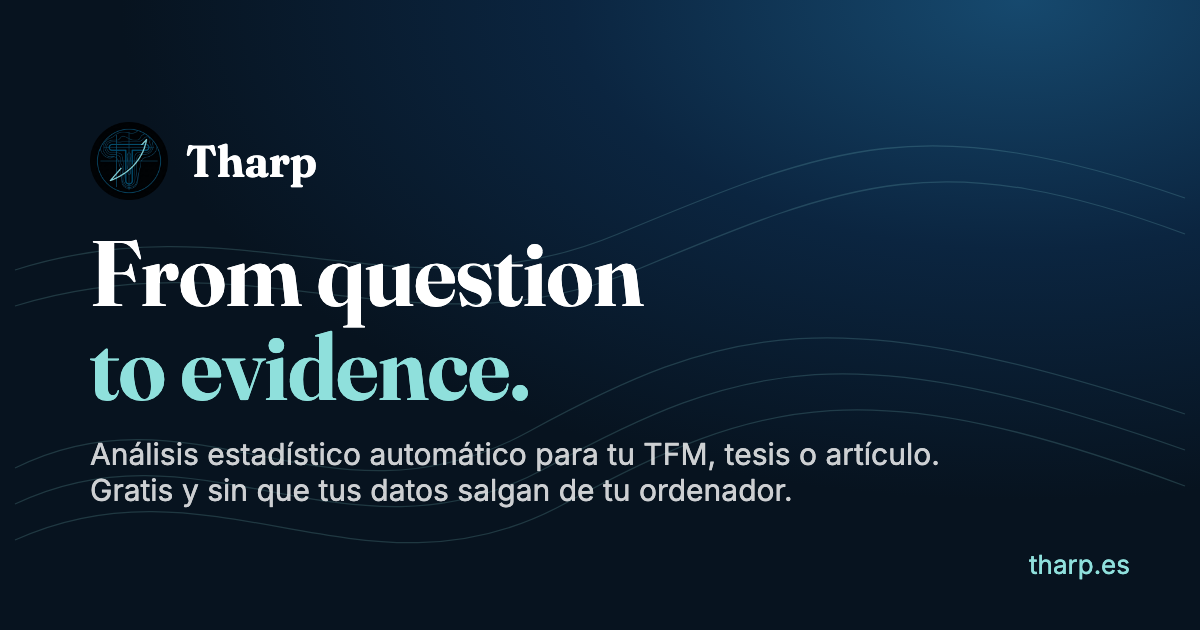
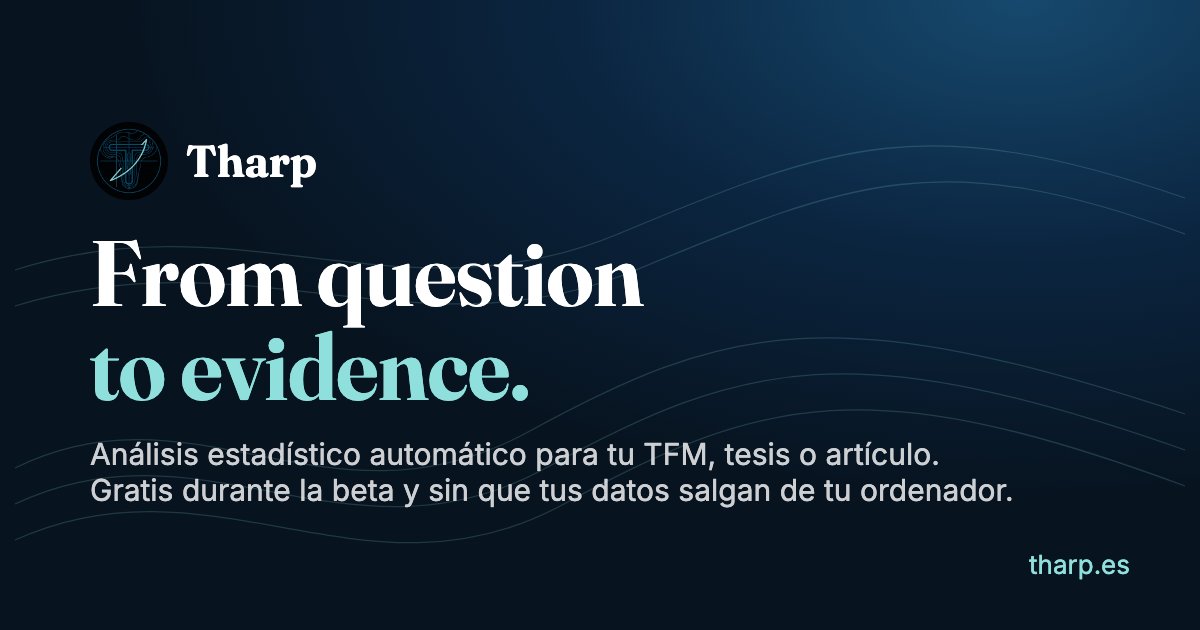
Beta gratuita (tharp@25afb01)

Changed region(s): [[0.1542, 0.754, 0.8325, 0.8143]]

diff --git a/index.html b/index.html
@@ -4,7 +4,7 @@
 <meta charset="utf-8">
 <meta name="viewport" content="width=device-width, initial-scale=1">
 <title>Tharp · Análisis estadístico automático para tu TFM, tesis o artículo</title>
-<meta name="description" content="Sube tus datos (Excel, CSV, SPSS o JASP) y Tharp comprueba los supuestos, elige la prueba adecuada y genera tablas APA, gráficos, el apartado de resultados redactado y el código R. Gratis y sin subir tus datos a ningún servidor.">
+<meta name="description" content="Sube tus datos (Excel, CSV, SPSS o JASP) y Tharp comprueba los supuestos, elige la prueba adecuada y genera tablas APA, gráficos, el apartado de resultados redactado y el código R. Gratis durante la beta y sin subir tus datos a ningún servidor.">
 <link rel="canonical" href="https://tharp.es/">
 <meta name="theme-color" content="#07131f">
 <meta property="og:type" content="website">
@@ -12,7 +12,7 @@
 <meta property="og:locale" content="es_ES">
 <meta property="og:url" content="https://tharp.es/">
 <meta property="og:title" content="Tharp · From question to evidence">
-<meta property="og:description" content="Análisis estadístico automático para investigación: supuestos, pruebas, tablas APA, gráficos y resultados redactados. Gratis y sin que tus datos salgan de tu ordenador.">
+<meta property="og:description" content="Análisis estadístico automático para investigación: supuestos, pruebas, tablas APA, gráficos y resultados redactados. Gratis durante la beta y sin que tus datos salgan de tu ordenador.">
 <meta property="og:image" content="https://tharp.es/img/og.png">
 <meta property="og:image:width" content="1200">
 <meta property="og:image:height" content="630">
@@ -25,7 +25,7 @@
  {"@type":"Organization","@id":"https://tharp.es/#org","name":"Tharp","url":"https://tharp.es/","logo":"https://tharp.es/img/logo-512.png","email":"info@tharp.es","sameAs":["https://www.instagram.com/tharpstats/"]},
  {"@type":"WebApplication","name":"Tharp","url":"https://tharp.es/app.html","applicationCategory":"EducationalApplication","operatingSystem":"Navegador web","inLanguage":"es","description":"Análisis estadístico automático para investigación: comprobación de supuestos, pruebas estadísticas, tablas APA, gráficos, redacción de resultados y código R reproducible.","offers":{"@type":"Offer","price":"0","priceCurrency":"EUR"},"publisher":{"@id":"https://tharp.es/#org"}},
  {"@type":"FAQPage","mainEntity":[
-  {"@type":"Question","name":"¿Tharp es gratis?","acceptedAnswer":{"@type":"Answer","text":"Sí. Esta primera versión es gratuita: puedes analizar tus datos sin registrarte."}},
+  {"@type":"Question","name":"¿Tharp es gratis?","acceptedAnswer":{"@type":"Answer","text":"Durante la beta, sí, y sin registro. Más adelante habrá planes de pago, que se anunciarán con antelación."}},
   {"@type":"Question","name":"¿Mis datos se suben a algún servidor?","acceptedAnswer":{"@type":"Answer","text":"No. Todo el cálculo se hace en tu navegador. El archivo no sale de tu ordenador y nada se guarda cuando cierras la pestaña."}},
   {"@type":"Question","name":"¿Qué archivos puedo usar?","acceptedAnswer":{"@type":"Answer","text":"Excel (.xlsx, .xls, .ods), CSV y archivos de SPSS (.sav, .zsav) y de JASP (.jasp), con sus etiquetas de valor y sus valores perdidos."}},
   {"@type":"Question","name":"¿Los resultados son fiables?","acceptedAnswer":{"@type":"Answer","text":"Cada prueba está validada automáticamente contra R y las librerías estadísticas de Python, y Tharp genera el script de R para que puedas reproducir cada resultado."}},
@@ -252,12 +252,12 @@ footer a:hover{text-decoration:underline}
   </svg>
   <div class="wrap">
     <div>
-      <span class="badge">Primera versión · Gratis · Sin registro</span>
+      <span class="badge">Beta abierta · Gratis durante la beta · Sin registro</span>
       <h1 lang="en">From question <em>to evidence.</em></h1>
       <p class="sub">Análisis estadístico para tu TFM, tu tesis o tu artículo, hecho en minutos.</p>
       <p class="desc">Sube tus datos y Tharp hace el trabajo mecánico: comprueba los supuestos, elige la prueba adecuada y te entrega las tablas APA, los gráficos y el apartado de resultados redactado. Con el porqué de cada decisión y el código R para reproducirlo.</p>
       <div class="ctas">
-        <a href="app.html" class="btn btn-primary">Analizar mis datos gratis →</a>
+        <a href="app.html" class="btn btn-primary">Probar gratis la beta →</a>
         <a href="#como" class="btn btn-ghost">Ver cómo funciona</a>
       </div>
       <div class="trust"><span>Tus datos no salen de tu navegador</span><span>Validado contra R</span><span>Excel, CSV, SPSS y JASP</span></div>
@@ -446,7 +446,7 @@ footer a:hover{text-decoration:underline}
     <div class="eyebrow">Preguntas frecuentes</div>
     <h2 style="margin-top:10px">Lo que nos suelen preguntar.</h2>
     <div class="faq">
-      <details><summary>¿Tharp es gratis?</summary><p>Sí. Esta primera versión es gratuita y no necesitas registrarte: entras, subes tu archivo y analizas.</p></details>
+      <details><summary>¿Tharp es gratis?</summary><p>Durante la beta, sí, y sin registro: entras, subes tu archivo y analizas. Más adelante habrá planes de pago; te avisaremos con antelación.</p></details>
       <details><summary>¿Mis datos se suben a algún servidor?</summary><p>No. Todo el cálculo se hace en tu navegador, con el código de la página. El archivo no sale de tu ordenador y nada se guarda cuando cierras la pestaña.</p></details>
       <details><summary>¿Qué archivos puedo usar?</summary><p>Excel (.xlsx, .xls, .ods), CSV y archivos de SPSS (.sav, .zsav) y de JASP (.jasp). De SPSS y JASP se respetan las etiquetas de valor, los tipos de medida y los valores perdidos definidos por el usuario. La primera fila debe tener los nombres de las variables y cada fila, un participante.</p></details>
       <details><summary>¿Los resultados son fiables?</summary><p>Cada prueba está validada automáticamente contra R y las librerías estadísticas de Python, y cada análisis incluye el script de R para que tú (o tu tutor) podáis reproducirlo. Aun así, revisa siempre los resultados: Tharp automatiza el cálculo, pero la interpretación es tuya.</p></details>

diff --git a/app.html b/app.html
@@ -8,7 +8,7 @@
 <link rel="icon" href="img/favicon-32.png" sizes="32x32" type="image/png"><link rel="icon" href="img/favicon-64.png" sizes="64x64" type="image/png">
 <link rel="apple-touch-icon" href="img/apple-touch-icon.png">
 <link rel="canonical" href="https://tharp.es/app.html">
-<meta property="og:title" content="Tharp · Analiza tus datos gratis">
+<meta property="og:title" content="Tharp · Analiza tus datos (beta gratuita)">
 <meta property="og:description" content="Supuestos, pruebas, tablas APA, gráficos y resultados redactados, sin subir tus datos a ningún servidor.">
 <meta property="og:image" content="https://tharp.es/img/og.png">
 <meta property="og:url" content="https://tharp.es/app.html">
